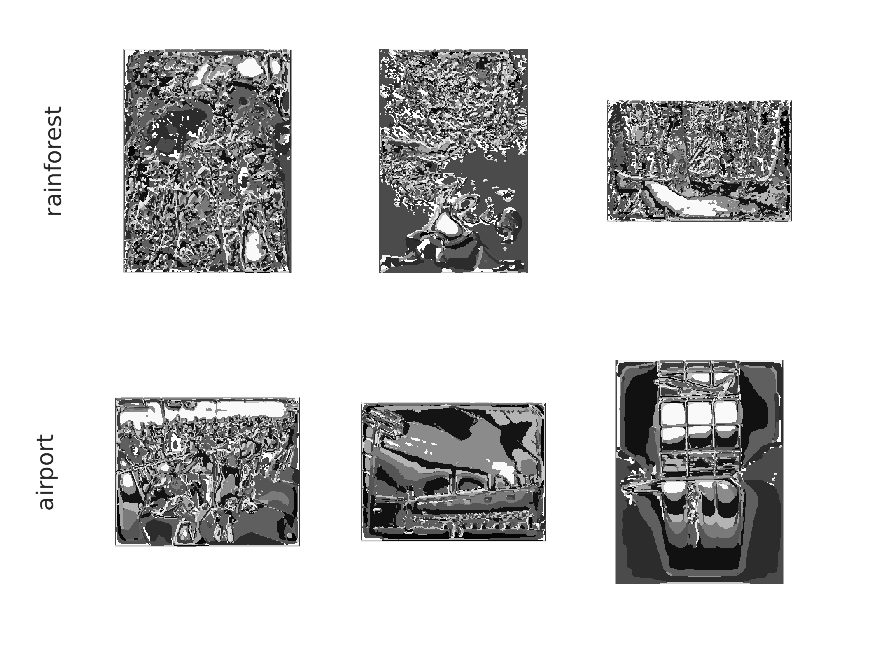
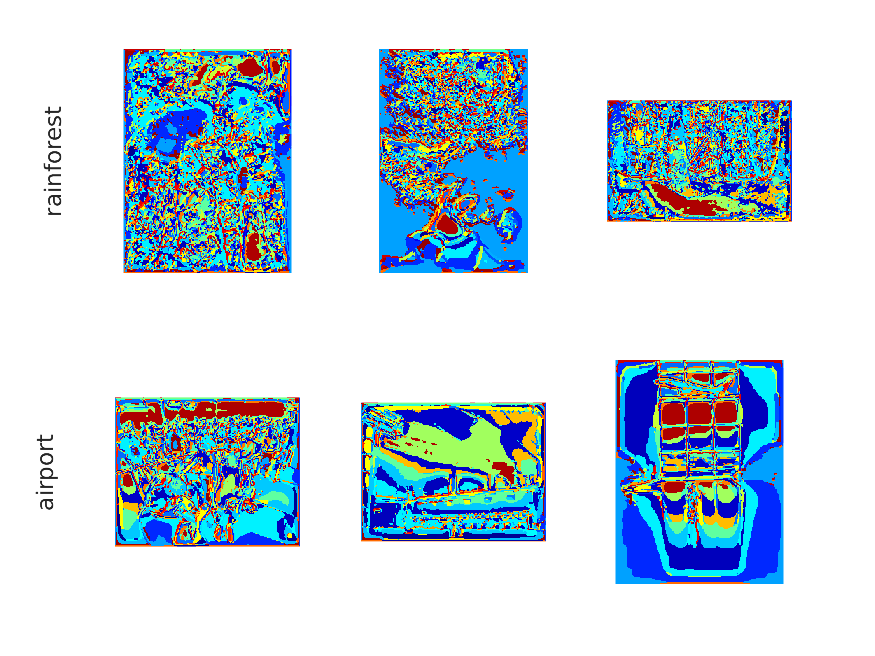
add q21 to writeup. wordmaps in color

diff --git a/assignments/hw2/matlab/e2e.m b/assignments/hw2/matlab/e2e.m
@@ -84,25 +84,25 @@ figure
 
 subplot(2 , 3 , 1 )
 load ( '../doc/q21data/random/rainforest/sun_aacykkmwtykjfldf.mat' )
-imshow(wordMap / 75)
+imshow( label2rgb ( wordMap ) )
 ylabel('rainforest')
 subplot(2 , 3 , 2 )
 load ( '../doc/q21data/random/rainforest/sun_absitpbkzyrvmnem.mat' )
-imshow(wordMap / 75)
+imshow( label2rgb ( wordMap ) )
 subplot(2 , 3 , 3 )
 load ( '../doc/q21data/random/rainforest/sun_abafooecdwxfwlob.mat' )
-imshow(wordMap / 75)
+imshow( label2rgb ( wordMap ) )
 
 subplot(2 , 3 , 4 )
 load ( '../doc/q21data/random/airport/sun_aexxslabfmbsumkp.mat' )
-imshow(wordMap / 75)
+imshow( label2rgb ( wordMap ) )
 ylabel('airport')
 subplot(2 , 3 , 5 )
 load ( '../doc/q21data/random/airport/sun_aevitxnlfjzhdnti.mat' )
-imshow(wordMap / 75)
+imshow( label2rgb ( wordMap ) )
 subplot(2 , 3 , 6 )
 load ( '../doc/q21data/random/airport/sun_aerinlrdodkqnypz.mat' )
-imshow(wordMap / 75)
+imshow( label2rgb ( wordMap ) )
 saveas ( gcf , '../doc/img/q21_wordmap_random.png' )
 
 
@@ -110,23 +110,23 @@ figure
 
 subplot(2 , 3 , 1 )
 load ( '../doc/q21data/harris/rainforest/sun_aacykkmwtykjfldf.mat' )
-imshow(wordMap / 75)
+imshow( label2rgb ( wordMap ) )
 ylabel('rainforest')
 subplot(2 , 3 , 2 )
 load ( '../doc/q21data/harris/rainforest/sun_absitpbkzyrvmnem.mat' )
-imshow(wordMap / 75)
+imshow( label2rgb ( wordMap ) )
 subplot(2 , 3 , 3 )
 load ( '../doc/q21data/harris/rainforest/sun_abafooecdwxfwlob.mat' )
-imshow(wordMap / 75)
+imshow( label2rgb ( wordMap ) )
 
 subplot(2 , 3 , 4 )
 load ( '../doc/q21data/harris/airport/sun_aexxslabfmbsumkp.mat' )
-imshow(wordMap / 75)
+imshow( label2rgb ( wordMap ) )
 ylabel('airport')
 subplot(2 , 3 , 5 )
 load ( '../doc/q21data/harris/airport/sun_aetygbcukodnyxkl.mat' )
-imshow(wordMap / 75)
+imshow( label2rgb ( wordMap ) )
 subplot(2 , 3 , 6 )
 load ( '../doc/q21data/harris/airport/sun_aerinlrdodkqnypz.mat' )
-imshow(wordMap / 75)
+imshow( label2rgb ( wordMap ) )
 saveas ( gcf , '../doc/img/q21_wordmap_harris.png' )

diff --git a/assignments/hw2/doc/jphaneuf.tex b/assignments/hw2/doc/jphaneuf.tex
@@ -81,6 +81,32 @@ Figure \ref{fig:harris_corners} shows my Harris corner detector applied to three
 \label{fig:harris_corners}
 \end{figure}   
 
+%%%%%%%%%%%%%%%%%%%%%%%%%%%%%%%%%%%%%%%%%%%%%%%%%%%%%%%%%%%%%%%%%%%%%%%%%%%%%%%%
+%%%%%%%%%%%%%%%%%%%%%%%%%%%%%%%%%%%%%%%%%%%%%%%%%%%%%%%%%%%%%%%%%%%%%%%%%%%%%%%%
+\newpage
+\section{Q2}
+\subsection{Q2.1}
+
+Figure \ref{fig:wordmapharris} shows the word map produced on 3 images of airport and rainforest class using the harris corner generated dictionary.
+Figure \ref{fig:wordmaprandom} shows the word map produced on 3 images of airport and rainforest class using the random corner generated dictionary.
+The goal of viewing these images is to capture semantic labeling on swatchs of an image, so "better" means more contiguous space logically grouped together (i.e. all pixels of a swath of grass have the same label.) The word maps from the harris dictionary appear to accomplish this better than the word maps from the random dictionary.
+
+\begin{figure}[H]
+\centering
+\includegraphics[page=1,width=1\textwidth]{q21_wordmap_harris}
+\caption{Wordmap Harris corners corners}    
+\label{fig:wordmapharris}
+\end{figure}   
+
+
+\begin{figure}[H]
+\centering
+\includegraphics[page=1,width=1\textwidth]{q21_wordmap_random}
+\caption{Wordmap random corners}    
+\label{fig:wordmaprandom}
+\end{figure}   
+
+
 
 
 
